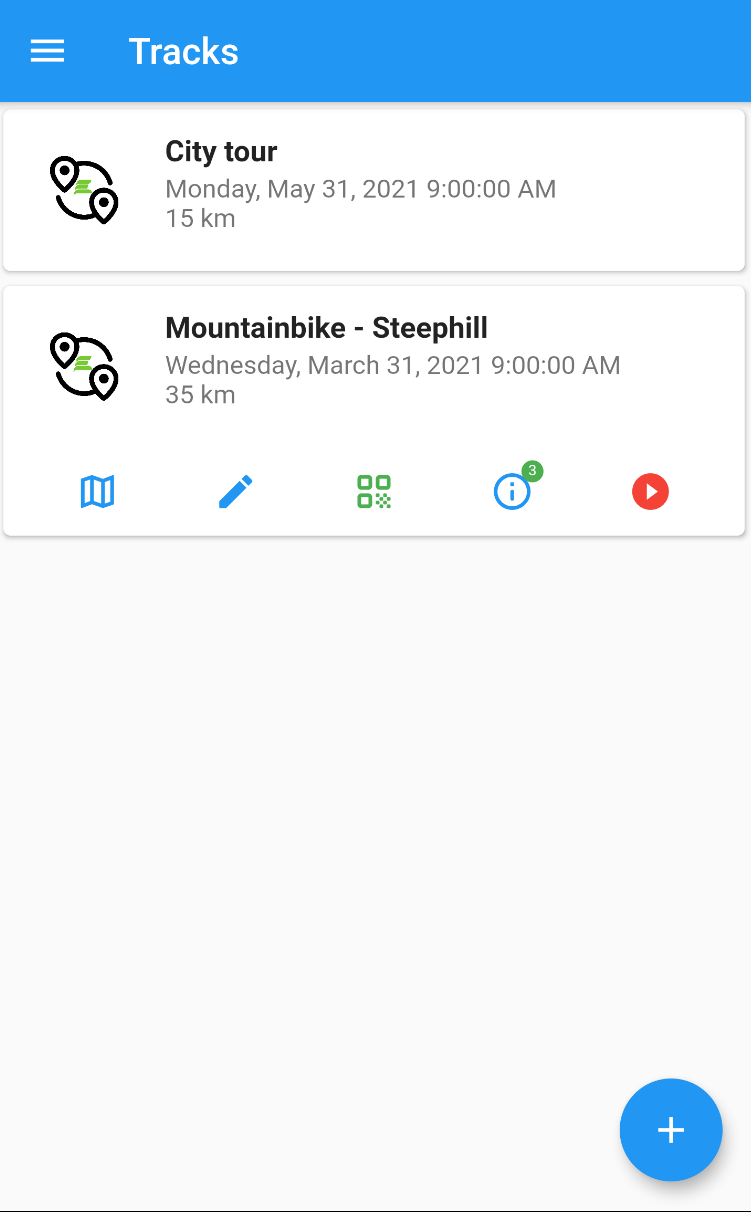
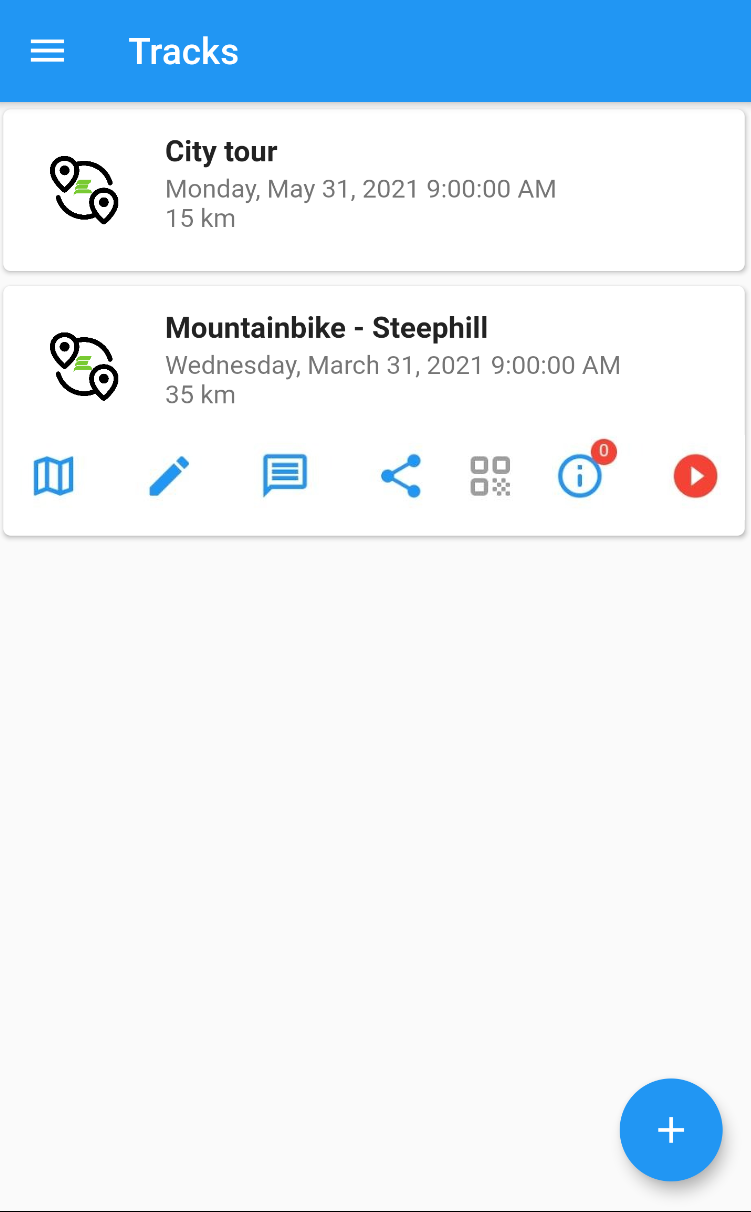
FE Tracking 1.3.0 (Part 2)

diff --git a/docs/getting-started/installation.rst b/docs/getting-started/installation.rst
@@ -35,7 +35,7 @@ Nevertheless, further optimisations are certainly possible in order to use the b
 #. Avoid using social media Apps and streaming Apps. They are known as notorious battery abusers.
    Search on the Internet for ``social media App battery usage`` and you will find good suggestions.
 #. If you pause for more than 5 minutes while walking, cycling, ... temporarily turn track recording off and turn it on again when you continue.
-#. The amount of data that *FE Tracking* uses for checkpoints and optional news and route updates is very limited and in most situations is
+#. The amount of data that *FE Tracking* uses for checkpoints and optional news and track updates is very limited and in most situations is
    not more than a few 10-kilobytes. For very long routes it might be a few megabytes.
    This data will almost always be sent via the mobile data network.
    Check your mobile operator's coverage map to see which type of network (``3G, 4G or 5G``) has the best coverage.
@@ -45,10 +45,10 @@ Nevertheless, further optimisations are certainly possible in order to use the b
    Turn off mobile data on all other devices and connect to the hotspot via WiFI. These devices will save quite a bit on battery power.
 #. Of course, you can also buy a small power bank and connect it to your phone. This way you will always have enough power available.
    Especially for long tracks or tracks that take all day, this is highly recommended.
-#. While recording the route, you can use the App to check where you are on the route and see how far you are from the next checkpoint, first aid post, etc...
+#. While recording the route, you can use the App to check where you are on the track and see how far you are from the next checkpoint, first aid post, etc...
    At that moment, map data will be downloaded, which of course happens via the mobile data network and will drain the battery and possibly your mobile data bundle.
    The App uses a map cache, so once a map segment has been downloaded, the next time it is used, the segment is retrieved from the cache. This saves time and money.
-   So if you are at home and have a WiFi connection, you can already explore the route and scroll through it with different zoom levels to fill the map cache.
+   So if you are at home and have a WiFi connection, you can already explore the track and scroll through it with different zoom levels to fill the map cache.
    A great time and cost saver for your mobile data bundle and your battery.
 
 Languages

diff --git a/docs/getting-started/settings.rst b/docs/getting-started/settings.rst
@@ -28,7 +28,7 @@ Text-to-speech format
 
 News settings
 -------------
-An event supports real-time messages if the :fa:`commenting-o fa-fw fa-lg text-primary` icon is visible in the routes overview for the route in question.
+An event supports real-time messages if the :fa:`commenting-o fa-fw fa-lg text-primary` icon is visible in the tracks overview for the track in question.
 
 Sound
   A short sound is played as soon as a news item comes in, if this setting is switched on.
@@ -45,12 +45,13 @@ Map settings
 ------------
 
 Disable checkpoint circles
-  The checkpoints on the route are shown as light grey circles and light green circles when a checkpoint is passed.
+  The checkpoints on the ttrack are shown as light grey circles and light green circles when a checkpoint is passed.
   Disabling this option has no effect on the indication of whether a checkpoint has been passed or not.
   If uploading is selected, the date and time of passing the checkpoint is still sent to the event organisation's server.
 
 Realtime sharing
-  Use real-time route sharing with your family, friends, ... while you are walking, cycling, running, ... This is only possible if the event organiser allows sharing and if this switch is on.
+  Use real-time track sharing with your family, friends, etc while you are walking, cycling, running, ...
+  This is only possible if the event organiser allows sharing and if this switch is on.
 
 Track color
   The colour of the track on the map. Click on the coloured circle to change its colour.
@@ -62,13 +63,13 @@ Location color
   The colour of the current location and direction on the map. Click on the coloured circle to change its colour.
      
 Live tracking color
-  The colour of the line of the route travelled. Click on the coloured circle to change its colour.
+  The colour of the line of the track travelled. Click on the coloured circle to change its colour.
 
 Live tracking line width
-  The line width (1 - 10) of the route travelled.
+  The line width (1 - 10) of the track travelled.
 
 Export file type
-  The file format (GPX or KML) used in the map part of the App to share the travelled route with another App.
+  The file format (GPX or KML) used in the map part of the App to share the travelled track with another App.
 
 ----
 

diff --git a/docs/usage/tracks.rst b/docs/usage/tracks.rst
@@ -9,7 +9,7 @@ Overview
 
    .. figure:: ../_static/images/usage/Tracks-overview.png
       :target: ../_static/images/usage/Tracks-overview.png
-      :alt: Overview IOS permissions
+      :alt: Overview Tracks
 
       Overview tracks
    ---
@@ -33,6 +33,14 @@ Context menu
 
 :fa:`pencil fa-fw fa-lg text-primary`
   Change the :doc:`event title <track-change>` in the event overview
+
+:fa:`commenting-o fa-fw fa-lg text-primary`
+  Only visible if the event organisation supports real-time message updates.
+  It can show a small badge on the top right displaying the number of unread messages.
+
+:fa:`share-alt fa-fw fa-lg text-primary`
+  Only visible if the event organisation supports track sharing and if you have enabled `Realtime sharing <../getting-started/settings.html#map-settings>`_ in the ``Settings``.
+  After clicking this button you can share the link via email, Signal, WhatsApp, etc with your family, friends, ...
 
 :fa:`qrcode fa-fw fa-lg text-muted` or :fa:`qrcode fa-fw fa-lg text-success` or :fa:`qrcode fa-fw fa-lg text-success opacity-4`
   When all checkpoints are passed **and** uploaded to the event organisation's server, the qrcode will turn green and the :doc:`Finish/exit qrcode <track-finish>` can be shown if the organisation requests it.
@@ -93,7 +101,7 @@ Recording
    Before and after the event, no recordings can be made. The icon is grey and inactive.
 
    When a live recording is started, the icon will change to a pause button and the background of the recorded track will turn transparent red,
-   so that you can clearly see in the overview which route is being recorded.
+   so that you can clearly see in the overview which track is being recorded.
 
    You can pause recording and restart it. For example, if you take a break on your route, it is a good idea to stop recording in order to save the battery.
    ---
@@ -109,7 +117,7 @@ Recording
 
 Track status
 ------------
-If the event supports real-time news and route updates, there is an icon in the top left corner of the route overview that indicates the status.
+If the event supports real-time news and track updates, there is an icon in the top left corner of the route overview that indicates the status.
 
 .. image:: ../_static/images/usage/Connection-icon.png
 

diff --git a/docs/index.rst b/docs/index.rst
@@ -18,7 +18,7 @@ Getting started
    ---
    The *FE Tracking* App can be used as an addition to the `Fast Events WordPress plugin <https://docs.fast-events.eu/>`_.
    The App offers participants - especially in sports events - the possibility
-   to show a route including points of interest and checkpoints along the route.
+   to show a track including points of interest and checkpoints along the route.
    The App records the date and time of passing the checkpoints and automatically uploads them to to the event organisation's server.
 
 |
@@ -27,8 +27,11 @@ Typical use
 -----------
 Use the App to scan a printed ticket or a downloaded PDF ticket.
 Turn recording on at the start of the route, turn off the screen and put it in a bracelet, for example.
-Stop recording at the end of the route and show the finish/Exit qrcode to the organisation in order to receive,
+Stop recording at the end of the track and show the finish/Exit qrcode to the organisation in order to receive,
 for example, a medal or any other form of proof of participation.
+
+The event organiser can also choose to make real-time messages and real-time track updates available to the user of the FE Tracking App.
+Users can also share their track with family and friends while walking, cycling, etc
 
 * **Install the *FE Tracking* App**:
   :doc:`Installation <getting-started/installation>`
@@ -57,6 +60,8 @@ How to use the different menu choices.
 
 * **Tracks overview**:
   :doc:`Tracks <usage/tracks>`
+* **Shared tracks overview**:
+  :doc:`Shared tracks <usage/shared-tracks>`
 * **FAQ**:
   :doc:`FAQ <usage/faq>`
 * **Donate**:
@@ -69,6 +74,7 @@ How to use the different menu choices.
    :caption: Usage
 
    usage/tracks
+   usage/shared-tracks
    usage/faq
    usage/donate
 

diff --git a/docs/usage/shared-tracks.rst b/docs/usage/shared-tracks.rst
@@ -1,0 +1,57 @@
+Shared tracks
+=============
+
+Overview
+--------
+.. panels::
+   :container: container-lg
+   :column: col-lg-6 col-md-12 col-sm-12
+
+   .. figure:: ../_static/images/usage/Shared-tracks.png
+      :target: ../_static/images/usage/Shared-tracks.png
+      :alt: Overview Shared tracks
+
+      Overview shared tracks
+   ---
+   .. figure:: ../_static/images/usage/Shared-track-delete.png
+      :target: ../_static/images/usage/Shared-track-delete.png
+      :alt: Delete a shared track
+
+      Delete a shared track
+
+|
+
+Add shared track
+^^^^^^^^^^^^^^^^
+The only possibility to add a shared track if you have received a link (via email, instant messengers, ...) from a participant.
+Click the link and the shared track will be added, if it is still valid.
+
+----
+
+Delete shared track
+^^^^^^^^^^^^^^^^^^^
+Deleting a shared track is straight forward. Either swipe the card to the left or the right and delete it.
+
+Shared track map
+----------------
+.. panels::
+   :container: container-lg
+   :column: col-lg-6 col-md-12 col-sm-12
+
+   .. figure:: ../_static/images/usage/Shared-track-map.png
+      :target: ../_static/images/usage/Shared-track-map.png
+      :alt: Map view Shared tracks
+
+      Map view shared tracks
+   ---
+   .. figure:: ../_static/images/usage/Shared-track-map-poi.png
+      :target: ../_static/images/usage/Shared-track-map-poi.png
+      :alt: Distance to a Point-Of-Interest
+
+      Distance to a Point-Of-Interest
+
+|
+
+Click on the shared track to show the map. Here you can see the progress of the participant on the track.
+This can be in real-time or after the participant has travelled at least a certain distance.
+This is set by the event organisation.

diff --git a/docs/usage/track-map.rst b/docs/usage/track-map.rst
@@ -20,7 +20,7 @@ Overview
 
 Stopped
 -------
-Before the track is recorded, the standard track is just visible and you can see for example which POIs are available on the route and what the route looks like.
+Before the track is recorded, the standard track is just visible and you can see for example which POIs are available on the track and what the track looks like.
 All checkpoints are also visible on the track as transparent black circles.
 
 Recording
@@ -42,10 +42,10 @@ Recording
 
 |
 
-When the track is recorded, the tracked route is visible (blue line) and the distance and speed are displayed at the top of the screen.
+When the track is recorded, the tracked track is visible (blue line) and the distance and speed are displayed at the top of the screen.
 As soon as a checkpoint is passed, the colour of the circle changes to transparent green.
 And the date and time are transmitted to the event organiser's server.
 
 Recording can be paused when you take a break to rest, for example. Pausing the recording is a good way to save the phone's battery life.
 
-You can of course still view the recorded route in pause mode and, for example, :guilabel:`Share` the route by pressing the :fa:`share-alt fa-fw fa-lg text-primary` icon in the top right of the screen.
+You can of course still view the recorded track in pause mode and, for example, :guilabel:`Share` the track by pressing the :fa:`share-alt fa-fw fa-lg text-primary` icon in the top right of the screen.

diff --git a/docs/usage/faq.rst b/docs/usage/faq.rst
@@ -46,10 +46,10 @@ FAQ
 
           Cutting a corner
        ---
-       It depends on the length of the route, whether there are many sharp bends in the route and most importantly, the distance filter defined by the event organisation.
+       It depends on the length of the route, whether there are many sharp bends in the track and most importantly, the distance filter defined by the event organisation.
        The App is optimized for battery-efficiency. It samples the accelerometer periodically while tracking in order to power-down the GPS as soon as the device is determined to be stationary.
        It uses the distance filter to query for the GPS location. But the filter itself is elastic; the faster you go, the larger the distance filter becomes. And ofcourse the other way around.
-       Usually, the organisation sets this filter to at least 10 metres for a walking route and at least 20 metres for bicycles, for example.
+       Usually, the organisation sets this filter to at least 10 metres for a walking track and at least 20 metres for bicycles, for example.
        So yes, the distance measured may be slightly shorter than the real distance due to cutting corners.
 
 .. dropdown:: All checkpoints are passed, but the finish/exit qrcode is not green

diff --git a/docs/usage/track-news.rst b/docs/usage/track-news.rst
@@ -18,10 +18,10 @@ News
 
 |
 
-The news icon is only visible if the event supports real-time news and route updates.
+The news icon is only visible if the event supports real-time news and track updates.
 If necessary, the number of new messages is shown in red above the icon.
 Once the messages have been read, the number will no longer be shown until a new message arrives.
 
-If a route is actively recording, it is very likely that you have the mobile phone in a bracelet or your pocket and therefore cannot see if there are any new messages coming in.
+If a track is actively recording, it is very likely that you have the mobile phone in a bracelet or your pocket and therefore cannot see if there are any new messages coming in.
 You may have earplugs in and be listening to music, for example.
 In this case, you can use the app's :doc:`settings <../getting-started/settings>` to indicate that you either want to hear a short sound as soon as there is a new message or that you want to play the message via Text-to-speech.

diff --git a/docs/usage/track-record.rst b/docs/usage/track-record.rst
@@ -20,7 +20,7 @@ Record
 
 If the current event is active, it means that the current date falls within the tracking window. See :doc:`Information <track-information>` screen.
 Once this is the case, the recording icon will turn ``red`` instead of ``grey``.
-Clicking on it will start recording the event; it will record the route travelled and check whether any checkpoints are passed.
+Clicking on it will start recording the event; it will record the track travelled and check whether any checkpoints are passed.
 The background of the event will become transparent red, so that in the overview it is clear which event is being recorded.
 
 Whenever a checkpoint is passed, the counter next to the information icon will increase.

diff --git a/docs/usage/track-information.rst b/docs/usage/track-information.rst
@@ -42,7 +42,7 @@ Information
 
 "Information" screen
   The information screen shows the order data, but also when the event is active, the so-called tracking-window.
-  Only when the event is active, the route can be recorded and the ``Finish/exit`` qrcode can be shown to the organisation when requested.
+  Only when the event is active, the track can be recorded and the ``Finish/exit`` qrcode can be shown to the organisation when requested.
 
 ----
 
